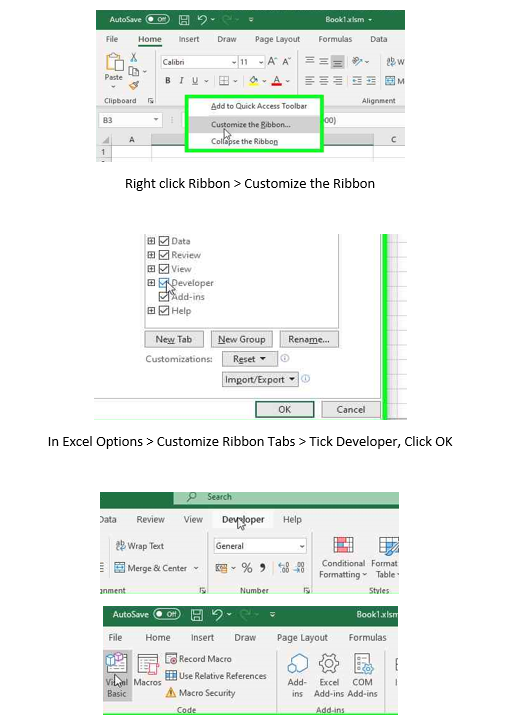
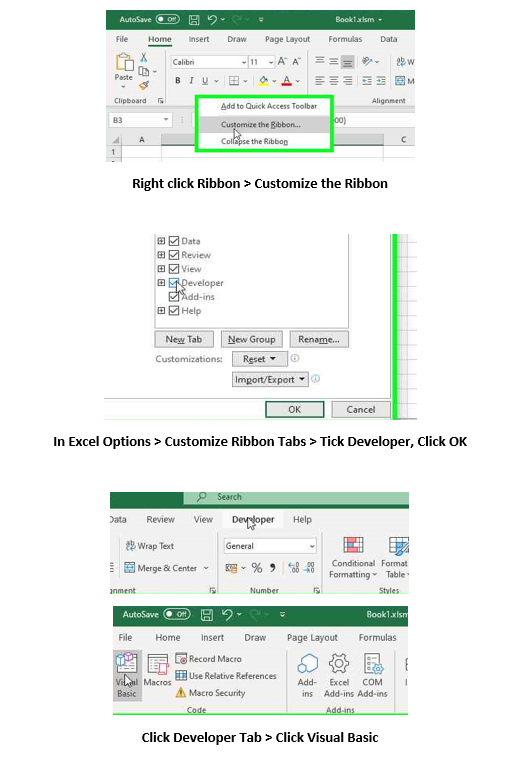
update readme1

Changed region(s): [[0.0927, 0.3039, 0.8958, 1.0], [0.1853, 0.0, 0.8031, 0.2735]]

diff --git a/README.md b/README.md
@@ -11,4 +11,6 @@ convert numbers to Malay words in Excel using VBA
 
 ![alt text](https://github.com/syahirain/number-to-Malay-Excel/blob/main/media/ribbon.png)
 
+![alt text](https://github.com/syahirain/number-to-Malay-Excel/blob/main/media/importvb.png)
+
 Credit to Alexander Frolov [blog](https://www.ablebits.com/office-addins-blog/2013/08/29/convert-numbers-words-excel/) from Ablebits.com for the original code made for Dollars in English.
